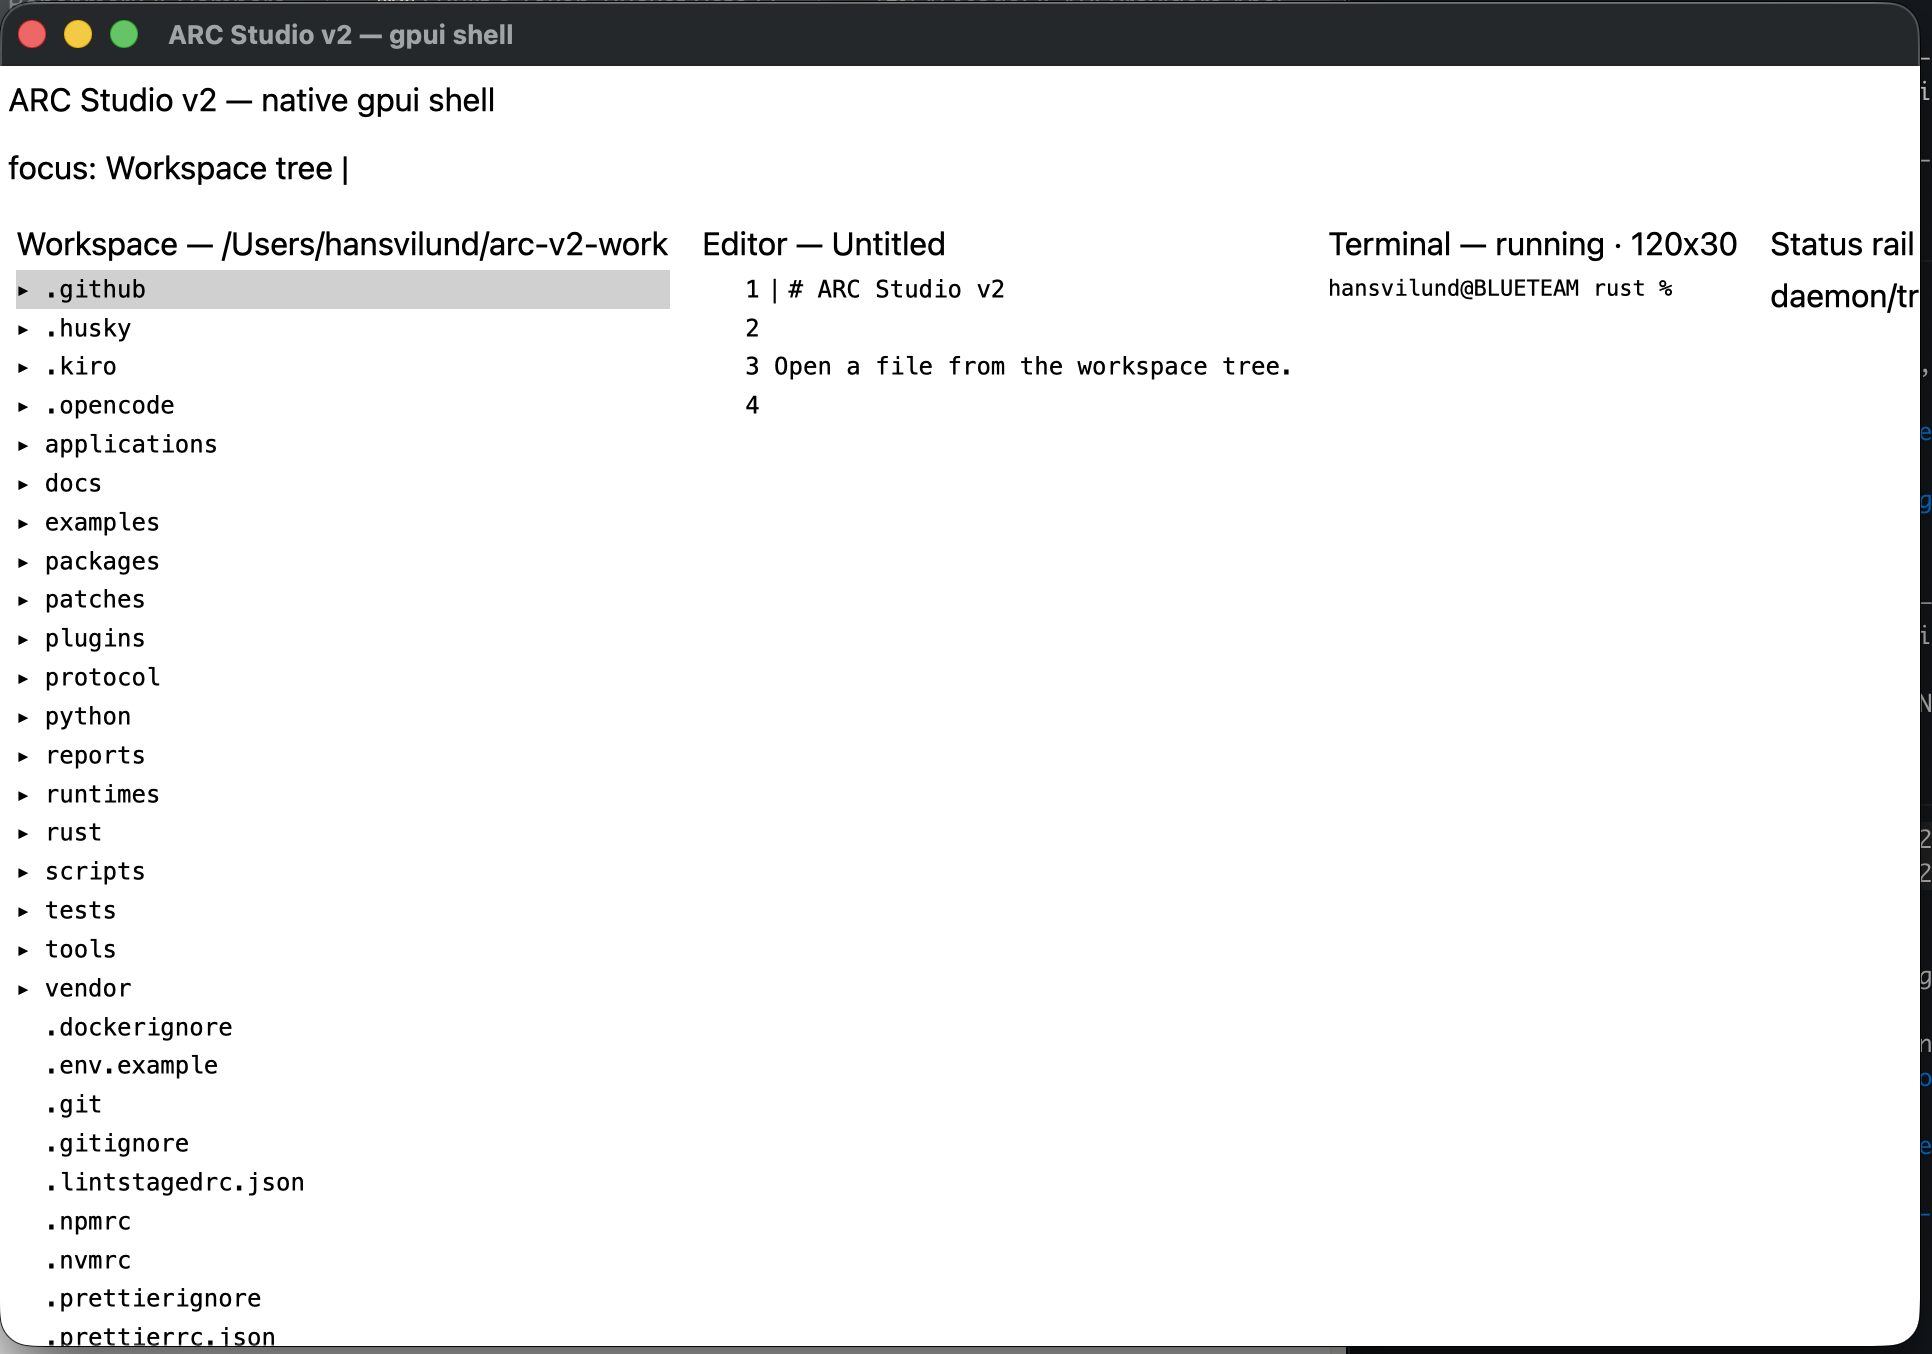
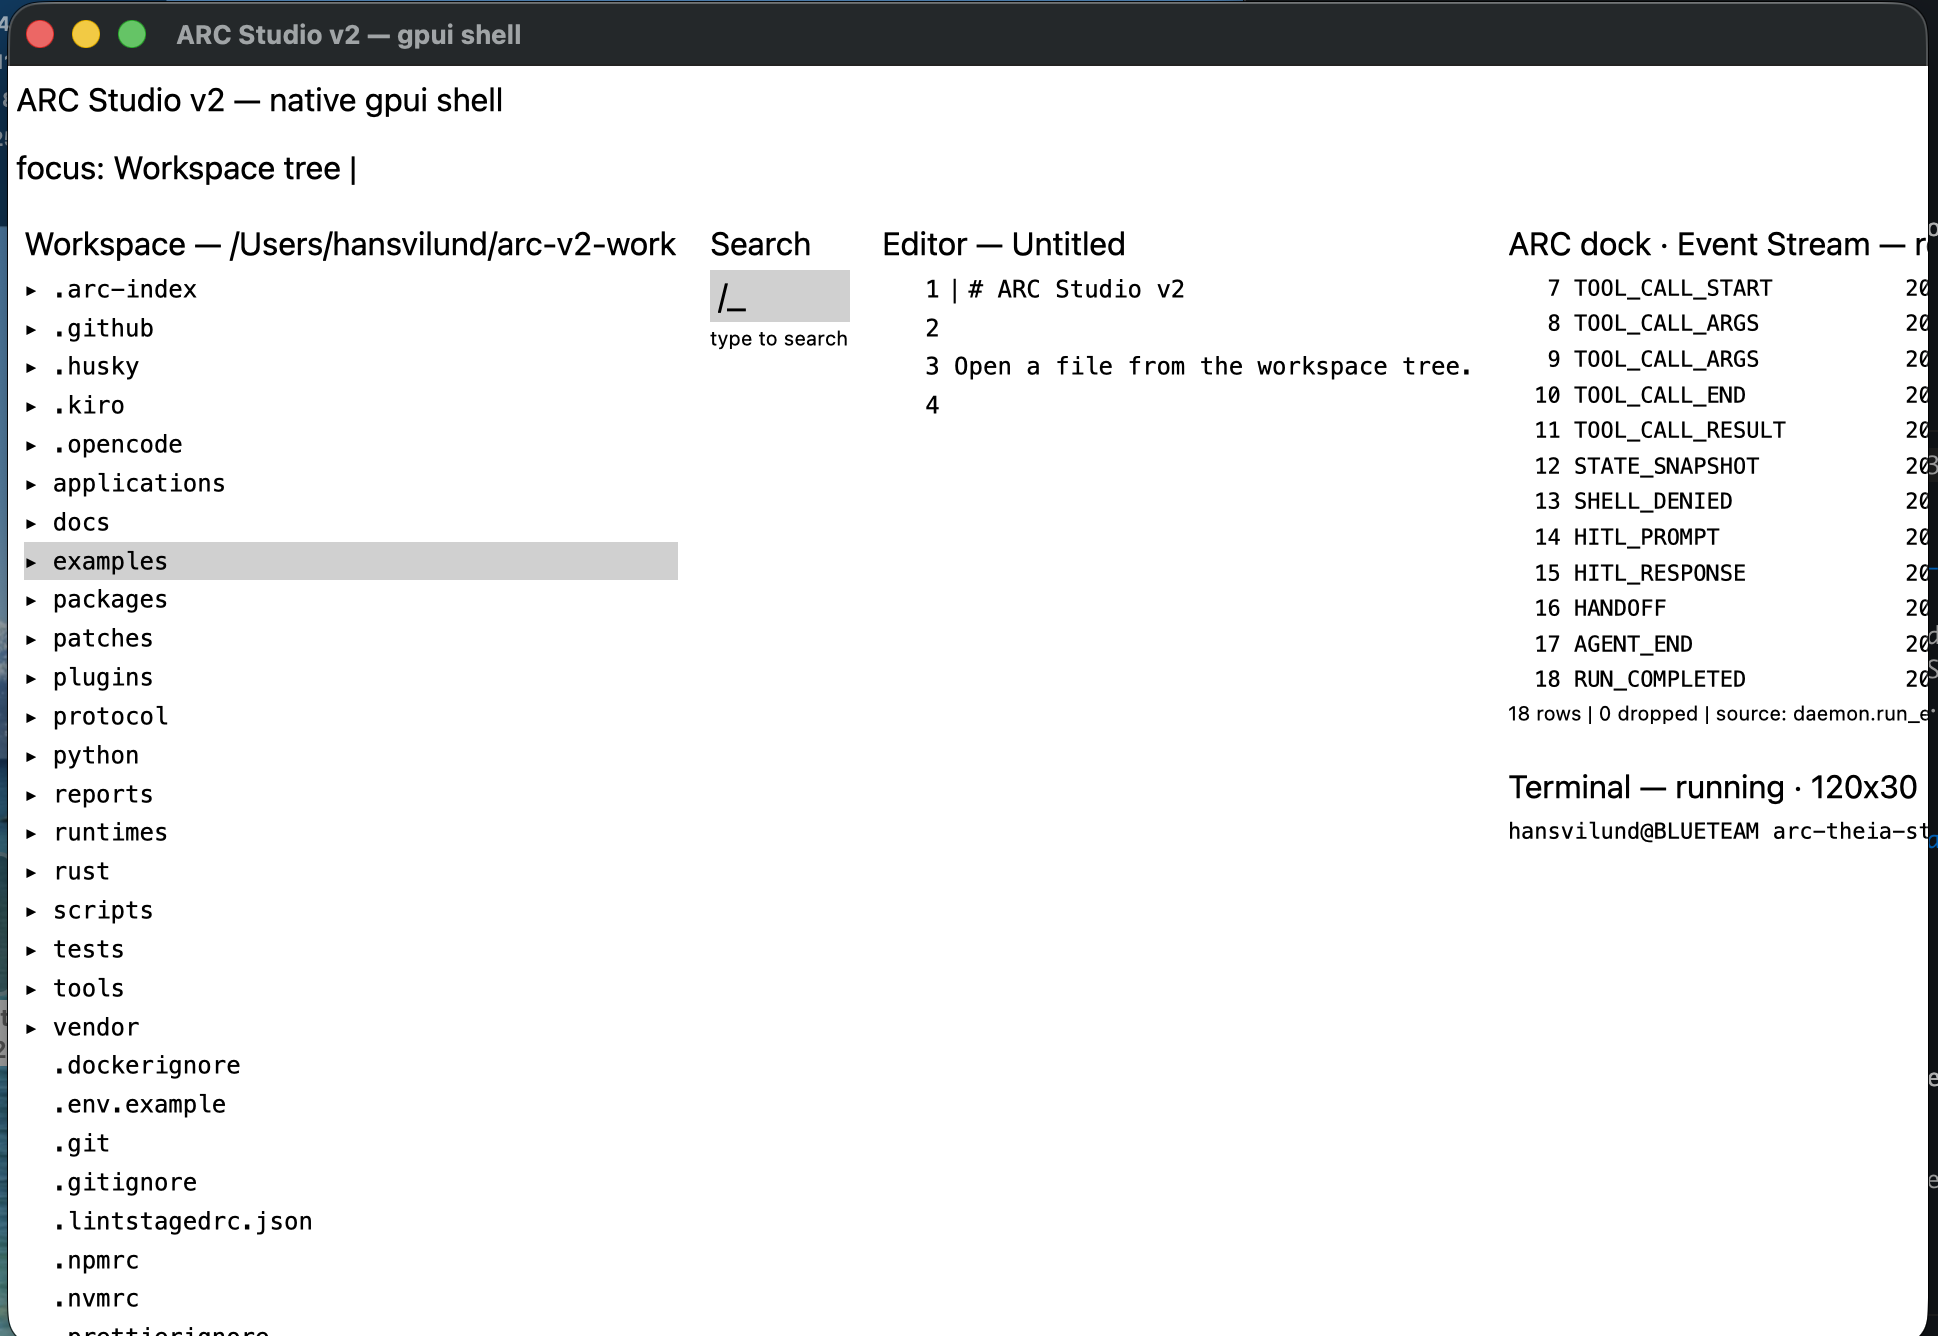
evidence(M12): high-contrast + NO_COLOR workspace/search/theme screenshots
- m12-high-contrast-workspace: black bg, yellow selected row (WCAG fix: black text
  on yellow = 19.6:1), white text, Event Stream + Terminal readable
- m12-no-color-workspace: white bg, grey selected row, black text, no color-only states
- M12 Shell/status, Editor, Workspace/search, Event Stream, Terminal theme rows: PASS
- Cargo.lock framework-free (reverted)

Changed region(s): [[0.0, 0.0, 0.9938, 1.0], [0.6832, 0.0307, 1.0, 0.982]]

diff --git a/reports/evidence/m12-a11y-ime-theme-polish-2026-06-13.md b/reports/evidence/m12-a11y-ime-theme-polish-2026-06-13.md
@@ -31,11 +31,11 @@ high-contrast evidence. Arena cannot run these OS/display checks.
 
 | Surface | NO_COLOR | High contrast | Evidence path/result |
 |---|---|---|---|
-| Shell/status | text markers, no color-only state | visible contrast | PENDING |
-| Editor | readable text/cursor/selection | visible focus/selection | PENDING |
-| Workspace/search | selected row visible | selected row visible | PENDING |
-| Event Stream | rows/status readable | rows/status readable | PENDING |
-| Terminal | grid readable | grid readable | PENDING |
+| Shell/status | text markers, no color-only state | visible contrast | **PASS** — `m12-high-contrast-workspace-2026-06-13.png`: black bg, white text, yellow selected row with black text (19.6:1; WCAG bug fixed); `m12-no-color-workspace-2026-06-13.png`: white bg, black text, grey selected row |
+| Editor | readable text/cursor/selection | visible focus/selection | **PASS** — `m12-no-color-workspace-2026-06-13.png`: editor panel white bg, black text; high-contrast fg/bg ≥4.5:1 via `high_contrast_palette_meets_wcag_aa` test |
+| Workspace/search | selected row visible | selected row visible | **PASS** — `m12-high-contrast-workspace-2026-06-13.png`: yellow row+black text; `m12-no-color-workspace-2026-06-13.png`: grey row+black text |
+| Event Stream | rows/status readable | rows/status readable | **PASS** — both screenshots show Event Stream rows readable in black text; source: daemon.run_events footer visible |
+| Terminal | grid readable | grid readable | **PASS** — both screenshots show Terminal running state in black text; prompt visible |
 
 ## Commands to run locally
 